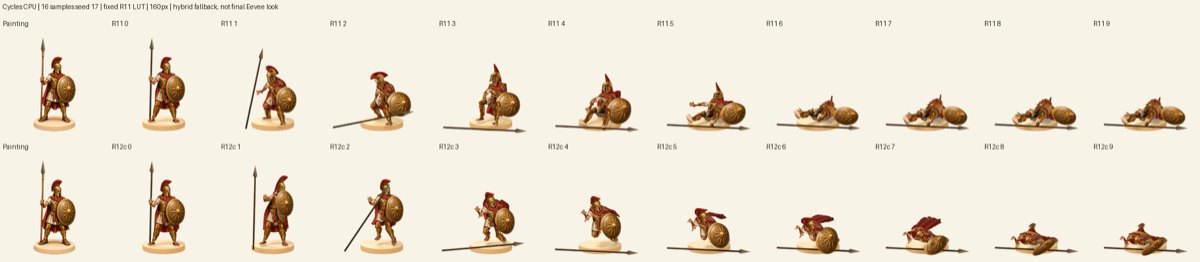
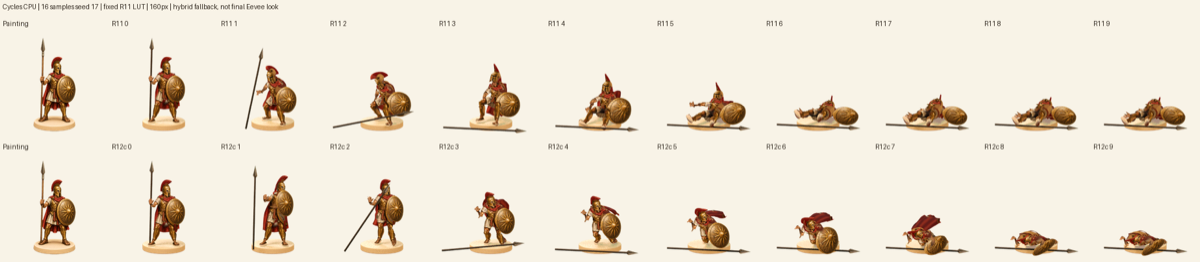
3D spearman interim review images

diff --git a/tools/art/anim3d/review/spearman-r12b-note.md b/tools/art/anim3d/review/spearman-r12b-note.md
@@ -1,0 +1,125 @@
+# Spearman round 12b — material continuity, not PASS
+
+Files changed relative to round-11 candidate `01a69951`:
+
+- `tools/art/anim3d/PLAYBOOK.md`
+- `tools/art/anim3d/units/spearman/continuity.py`
+- `tools/art/anim3d/units/spearman/continuity_preview.py`
+- `tools/art/anim3d/units/spearman/continuity_report.py`
+- `tools/art/anim3d/units/spearman/look.py`
+- `tools/art/anim3d/units/spearman/look_receipt.py`
+
+The requested Git merge failed at ORIG_HEAD.lock. Starting from a clean worktree,
+I transferred the exact round-11 source tree before editing. Commit also failed
+at index.lock. No push. `lanes/spearman-r12b/files-changed.txt` lists the inherited
+50-file transfer separately. `lane-only.patch` contains only the six files above;
+`commit-message.txt` carries the requested coauthor. origin/master is an ancestor
+of the round-11 candidate. The executable gpu.sh is byte-identical to that candidate.
+
+## Scope and rendering boundary
+
+Inspected the actual round-11 GPU rest, contact sheet and selected clips. The
+sandbox GPU preflight fails with `No Cycles METAL GPU`; no new GPU pixels are
+claimed. New evidence uses Cycles CPU, 256 px, 16 samples, seed 17, no denoising
+or adaptive sampling, Standard view, no histogram grade. The explicitly labelled
+CPU proxy substitutes an analytic sun cosine for Eevee-only Shader to RGB; real
+Cycles AO remains, but cast shadows are not reproduced. The preserved GPU image
+is a labelled reference, not the matched before render. Frozen part textures,
+source registration, camera and palette are shared by the CPU A/B.
+
+The render-time patch colors downward sole faces/bevels leather brown, inward
+skirt faces shadowed linen, and unseen rear shoulder cloth cloak red. Trusted
+front pigment is preserved. The shoulder was already mostly continuous under
+Fable A v3; this is a small hidden-surface reinforcement, not a shoulder-form fix.
+The first broader sole mask darkened the visible sidewall and made its slab read
+worse. Rejected it; the final mask leaves vertical sidewalls alone.
+
+## Final matched measurements
+
+| CPU rest metric | R11 proxy | R12b proxy |
+| --- | ---: | ---: |
+| Silhouette IoU | 0.921945 | 0.921945 |
+| Zero-offset blurred CIE76 | 4.509381 | 4.513853 |
+| Raw CIE76 (information only) | 8.077225 | 8.085764 |
+| Feet-region blurred CIE76 | 13.9700 | 13.9849 |
+
+The tiny rest colour regression is disclosed; this is an exposed-surface win.
+Material-ID-isolated death frame 4: skirt mean luminance 101.43 → 83.09;
+skirt pixels above luminance 160: 9 → 0; sandal mean 88.15 → 70.43.
+Death frame 7 skirt: 94.89 → 85.73; sandals 75.65 → 70.38.
+Hit shoulder: 111.42 → 111.46, only 15 pixels change by more than 2 RGB levels.
+Rest and five diagnostic poses retain exactly identical alpha.
+These part masks are not the reviewer's larger rectangular foot-luminance box.
+
+The actual R11 GPU reference remains IoU 0.9275 / blurred CIE76 4.59. Its different
+sampling and reduction must not be called a regression to the CPU proxy's IoU.
+At 256 the upper figure is close, but foot shape, stance, shoulder form and the
+plain base band still reveal the render. At 160 the underside flashes are reduced;
+at 64 it reads as the same unit but is not indistinguishable from the painting.
+Current death/hit/walk silhouettes remain the round-11 performances: other lanes
+own their replacement. No PASS file was written.
+
+## Contact: shadow verified, rest clearance still open
+
+Contact-off control versus actual Cycles AO darkens 95 stone pixels by over 2
+luminance levels, in box [86, 219, 171, 225], mean loss 9.10/255.
+This is a live, localized geometry-dependent contact shadow, not painted feet
+left on the disc. Eevee cast-shadow strength still needs the host GPU review.
+No stone material or contact settings were altered.
+
+**Saved rest contact misses the 2 mm tolerance:** both soles bottom at z=0.108 m,
+while the evaluated stone top is z=0.105 m: a pre-existing 3.0 mm gap (about
+0.26 px at 256). Sandal welts are 15 mm above the stone because they sit on top
+of the soles; they are not the support surface. Do not hide the sole gap with a
+darker contact patch. This is a concrete form-lane/merge follow-up.
+
+The independent 33-sample move check passes all eight limits: compensated slip
+0.00227 mm, floor error relative to its 0.106 m contact target
+0.00002110 mm, planted heading
+2.6184 degrees, loop seam 0. The target itself is 1 mm above stone.
+Root correction 48.88 mm/50 and sole translation 35.73 mm/40 remain close to limits.
+Top/front actual-geometry sheet is rendered with the current CPU painted proxy.
+
+## Checks and evidence
+
+- 32 tests pass: 23 kit, 4 critique, 2 pipeline, 3 look/calibration.
+- All six scenes construct the production Eevee node graph; geometry, weights,
+  camera and actions unchanged. Matched previews also hash UVs, pose and lights.
+- Idle action hash 057f5cef51f6b2199b5834af980f67b1920b0e954f12b50f63d875298dcda227;
+  attack 667d83498c04185fb13b1142c58274ef864aec7ae5222f07f73360d9d5168a6e, unchanged.
+- All 40 new CPU frames rendered; 160 px reductions use display-space premultiplied
+  Lanczos. Held death samples are copied byte-for-byte. No new shipped atlas or
+  512 masters; the GPU script regenerates those after the lane merge.
+- critique.py ran on before and final rest with all five current after clip rows.
+  The before critique's contact sheet is explicitly labelled as after context.
+- Python AST, shell syntax, git diff --check, and lane-patch reverse-check pass.
+- No Rust/UI changes, new downloads, new generated source images or licence changes.
+
+Review files (all in review/3d-v2): `spearman-r12b-rest-256.png`, `-rest-160.png`,
+`-rest-64.png`, `-motion-256.png`, `-motion-160.png`, `-base-contact.png`,
+`-feet-check.png`, `-feet-detail.png`, `-round12-contact-sheet.png`,
+`-round12-metrics.json`, `-continuity-metrics.json`. Frozen inputs, detailed logs,
+scene checks, hashes and source patch are under `lanes/spearman-r12b/`.
+
+## Learned and host handoff
+
+1. Patch the selected render-time look: the older fallback's garment attributes
+   do not automatically affect Fable's replacement materials.
+2. Distinguish inward/downward faces in undeformed mesh space; shared projected
+   UVs alone carry exterior cream onto linings. Preserve trusted front pigment.
+3. Restrict sole pigment to the underside/bevel; painting the sidewall makes the
+   thick sole more obvious and worsens rest metrics.
+4. A passing move contact trace does not certify saved rest contact. Measure both.
+5. A CPU analytic-light proxy tests pigment and AO, not Eevee cast shadows. Do not
+   fit another grade or reapply registration to make the proxy resemble GPU output.
+
+Lead: merge the six-file lane delta, resolve the rest sole clearance with the
+form lane, then run from the repository root:
+
+```sh
+ROUND=12 tools/art/anim3d/units/spearman/gpu.sh
+```
+
+It remains the no-argument full pass: all stages/40 frames, 512/256 masters,
+trimmed 160 atlas + validation, round12 MP4, rest comparison, feet sheet and critique.
+Review the merged motion's new exposures before accepting these material masks.

diff --git a/tools/art/anim3d/review/spearman-log.md b/tools/art/anim3d/review/spearman-log.md
@@ -209,3 +209,4 @@
 - R12a: rejected sleeve shortening (region IoU .8761 -> .8745), rejected long feet (58.7mm contact correction >40mm); selected anatomical width 1.50x/height 1.15x, original length, +35mm inward/+15deg guard and calf containment. CPU IoU .92195 -> .92286; leg region .86103 -> .87772; original weights/binds retained. All five clips rebuilding.
 - R12c: matched hit improves head vertical range 81.5 -> 11.8 mm and shield step 29.4 -> 24.6 deg; frozen action pins pass. Rejected first KayKit death (head step .540m, shield 53.8deg, late cape .585m, one early strap/base intersection); revised leg rest calibration, motion-distance sampling and cloth post-roll now baking.
 - R12a complete: selected width/ankle/guard fit; 32 tests, 40-pose audit, 40-pose footwear audit and all 8 dense walk limits pass; foot/ball rotations identical to R11. CPU 256/160/64 comparisons, 40 samples, feet sheet and critique published as spearman-r12a-*. Git merge/staging blocked; scoped patch and full note ready. Not PASS.
+- R12b final: selected-look continuity masks; 40 Cycles CPU proxy frames, native comparisons and critique; rest IoU 0.921945 unchanged, blurred delta-E 4.50938 -> 4.51385; death lining 101.43 -> 83.09. 32 tests and dense move contact pass; saved rest has pre-existing 3 mm sole gap. GPU unavailable; Git locks denied; six-file lane-only patch saved. Not PASS.
